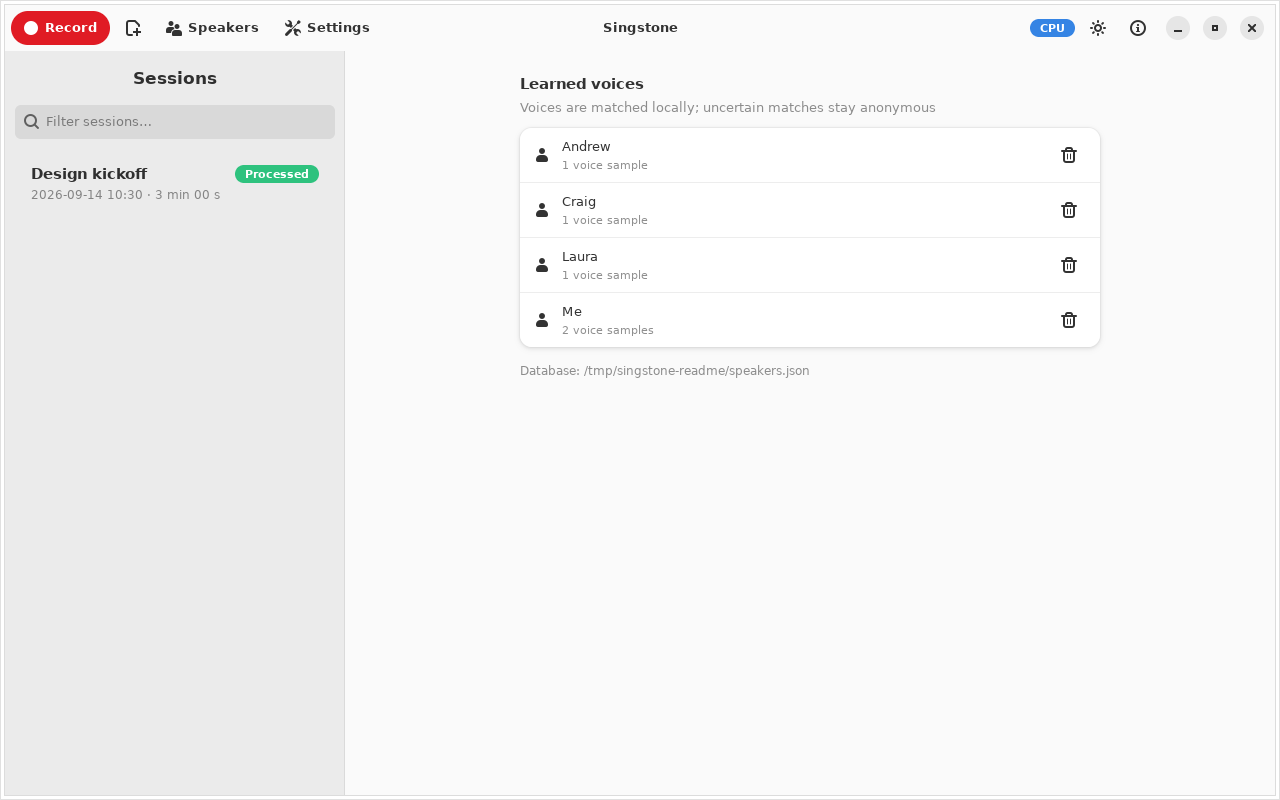
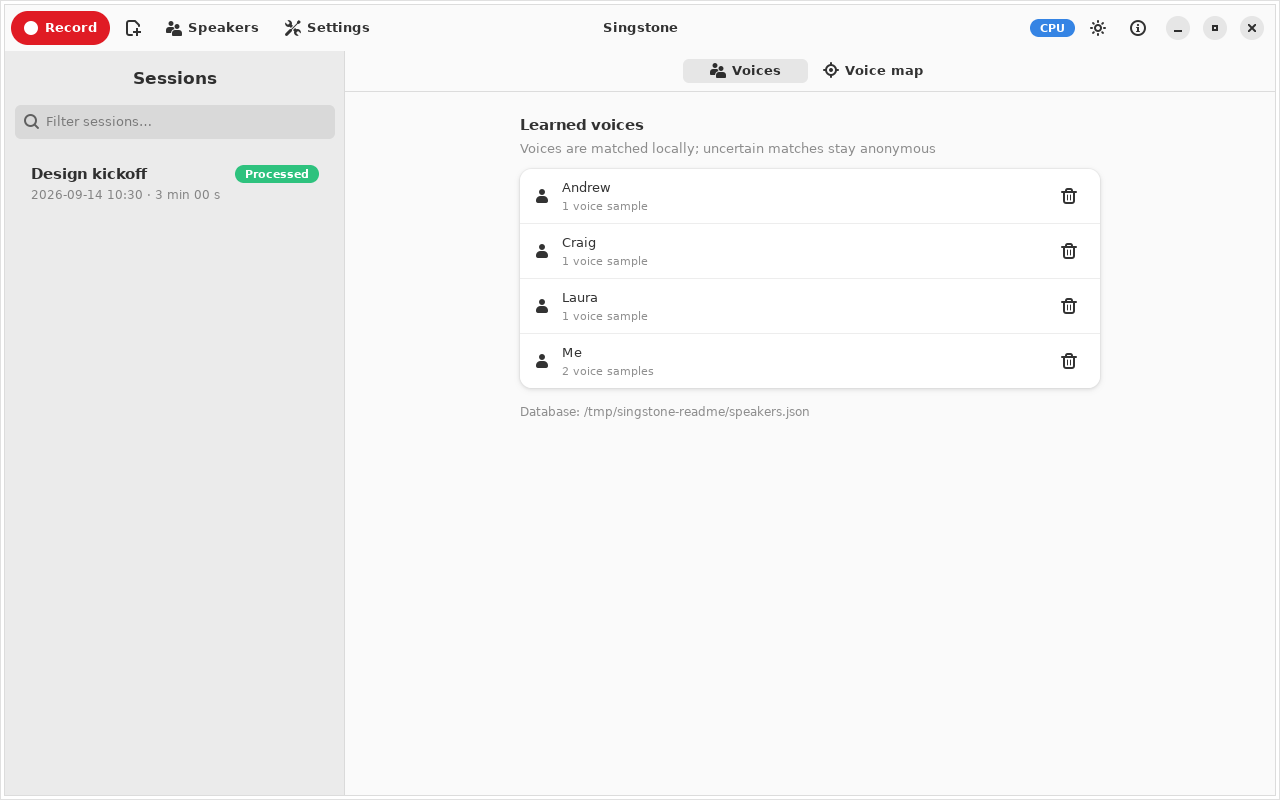
Describe the voice map in the README
The Speakers page screenshot is retaken, since the page now opens
with a Voices and Voice map switcher.

diff --git a/README.md b/README.md
@@ -45,6 +45,21 @@ samples stored for each person.
 
 ![Speakers page listing learned voices and voice sample counts](docs/images/speakers.png)
 
+Switch to **Voice map** to see every learned voice sample as a dot, one color
+per person. People whose voices sound alike sit close together, and their
+clouds overlap when the recognizer can barely tell them apart. A dashed line
+joins voices that are close or overlapping, labeled with the score one
+person's samples get against the other's. Rings mark single samples that sound
+more like someone else, often a line named after the wrong person, or that lie
+far from the rest of their voice, such as a noisy recording. Findings on the
+right list these problems; choose one, or a person under Voices, to zoom in on
+it. Hover a dot to see whose sample it is and how it scores. The map is a flat
+approximation of the distances between voices: the scale bar shows how far
+apart two centers sit when their voices are exactly at the match threshold,
+and the scores are exact where the picture is not.
+
+![Voice map showing learned voices as colored clouds of samples, with close voices joined by dashed lines and a findings list](docs/images/voice-map.png)
+
 Use Meeting details… to title the meeting and place attendees in the room or on
 the remote end before re-rendering the transcript.
 
@@ -99,6 +114,8 @@ a session can be archived with or without it.
   level meters.
 - Learns fixed-window voice embeddings when a transcript line is named or
   corrected, building a local speaker database from confirmed speech.
+- Maps learned voices on a plane to reveal look-alike voices, mislabeled
+  samples, and outliers in the speaker database.
 - Keeps recording and inference offline under Snap confinement.
 - Verifies every model's size, purpose, and SHA-256 before native code loads it.
 
